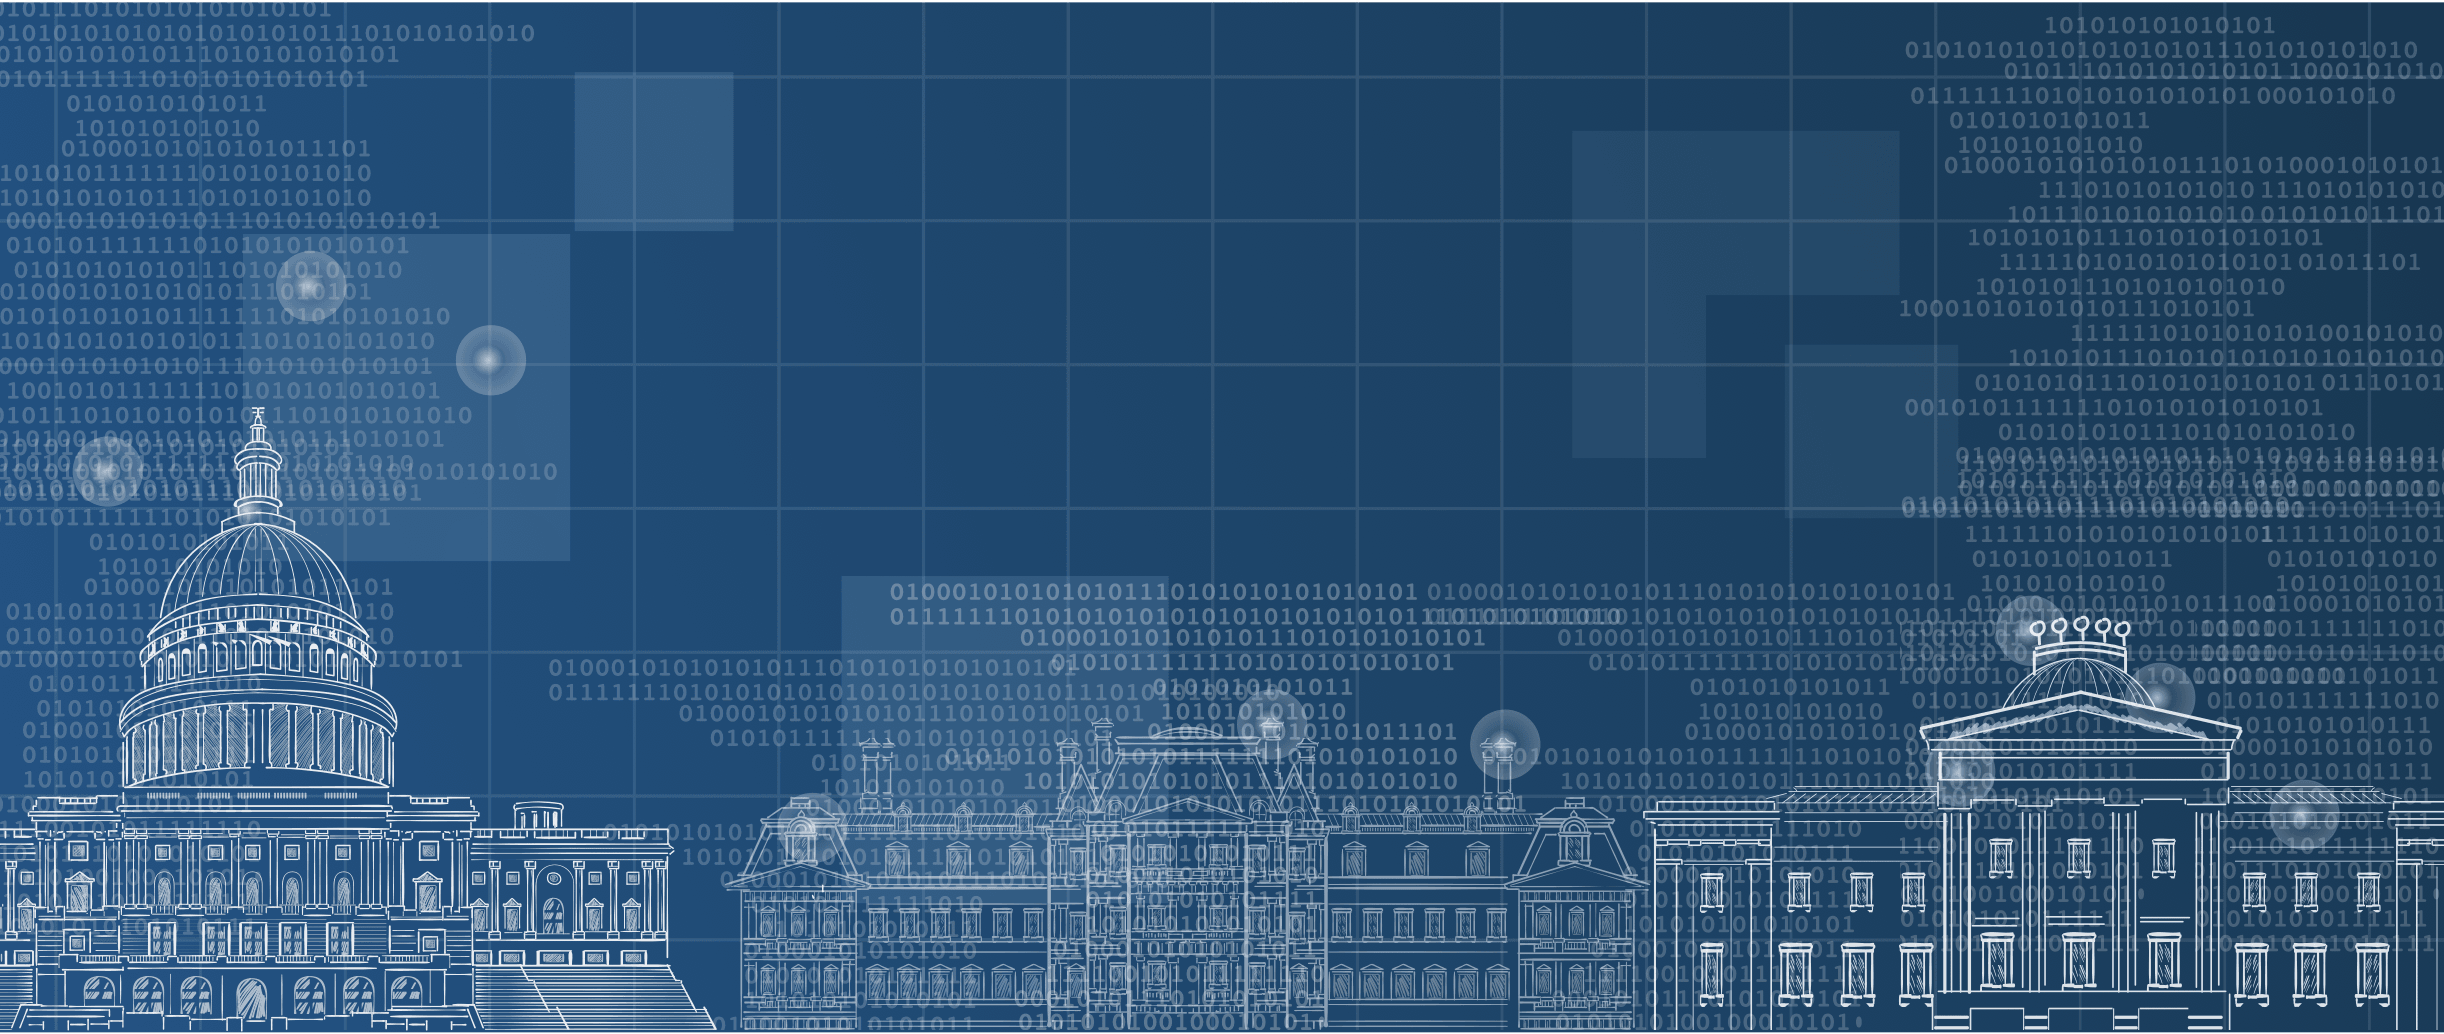
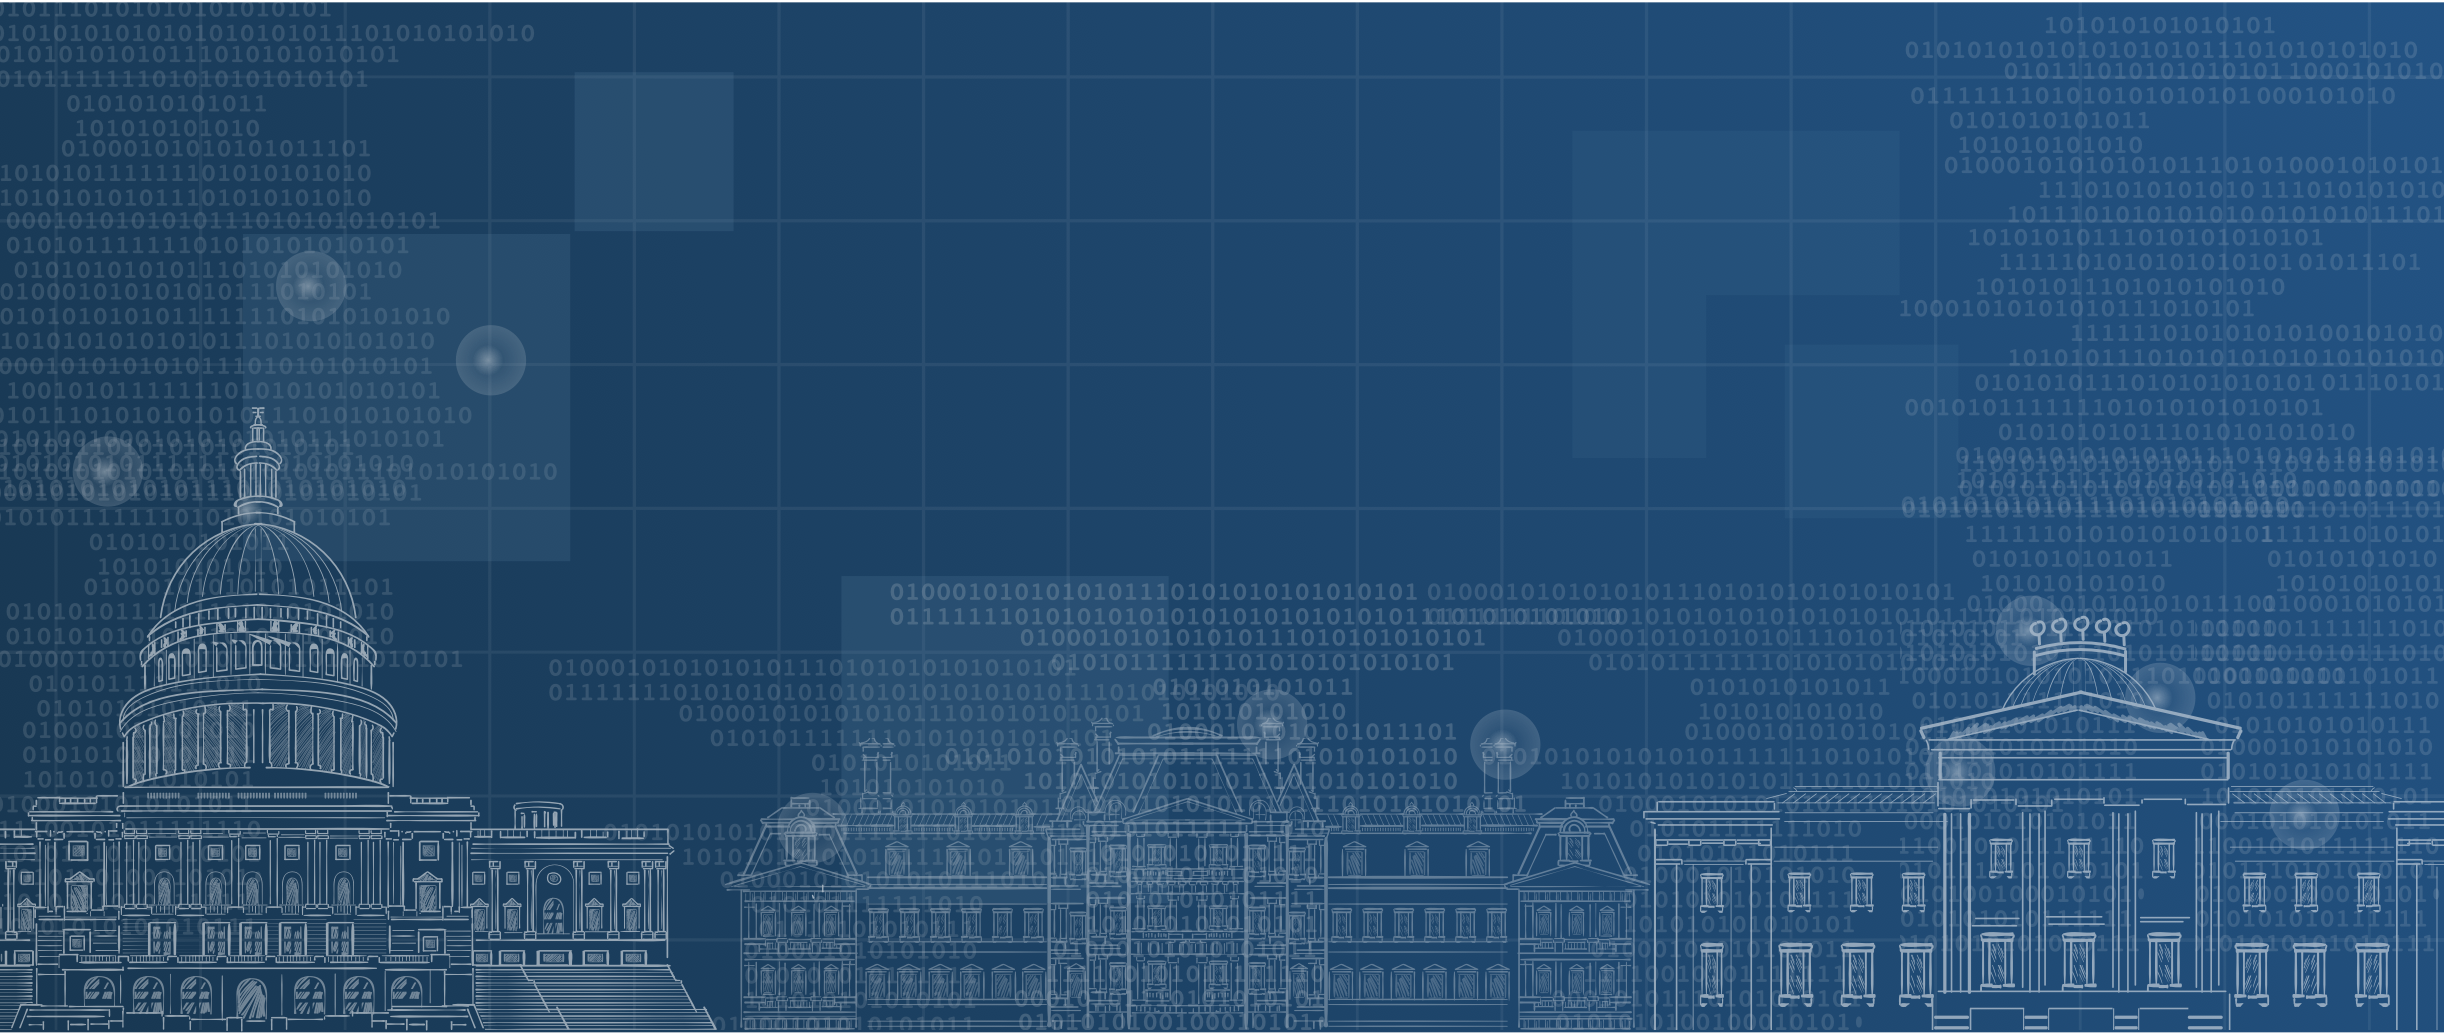
Bring down opacity to 60% for hero sketches

diff --git a/_sass/pages/_landing.scss b/_sass/pages/_landing.scss
@@ -6,7 +6,7 @@
   @extend %jumbotron;
   @extend %jumbotron-fluid;
   @extend %mb-0;
-  background-image: url('../img/government-digitization.svg');
+  background-image: url('../img/government-digitization.png');
   background-position: center;
   background-repeat: no-repeat;
   background-size: cover;
